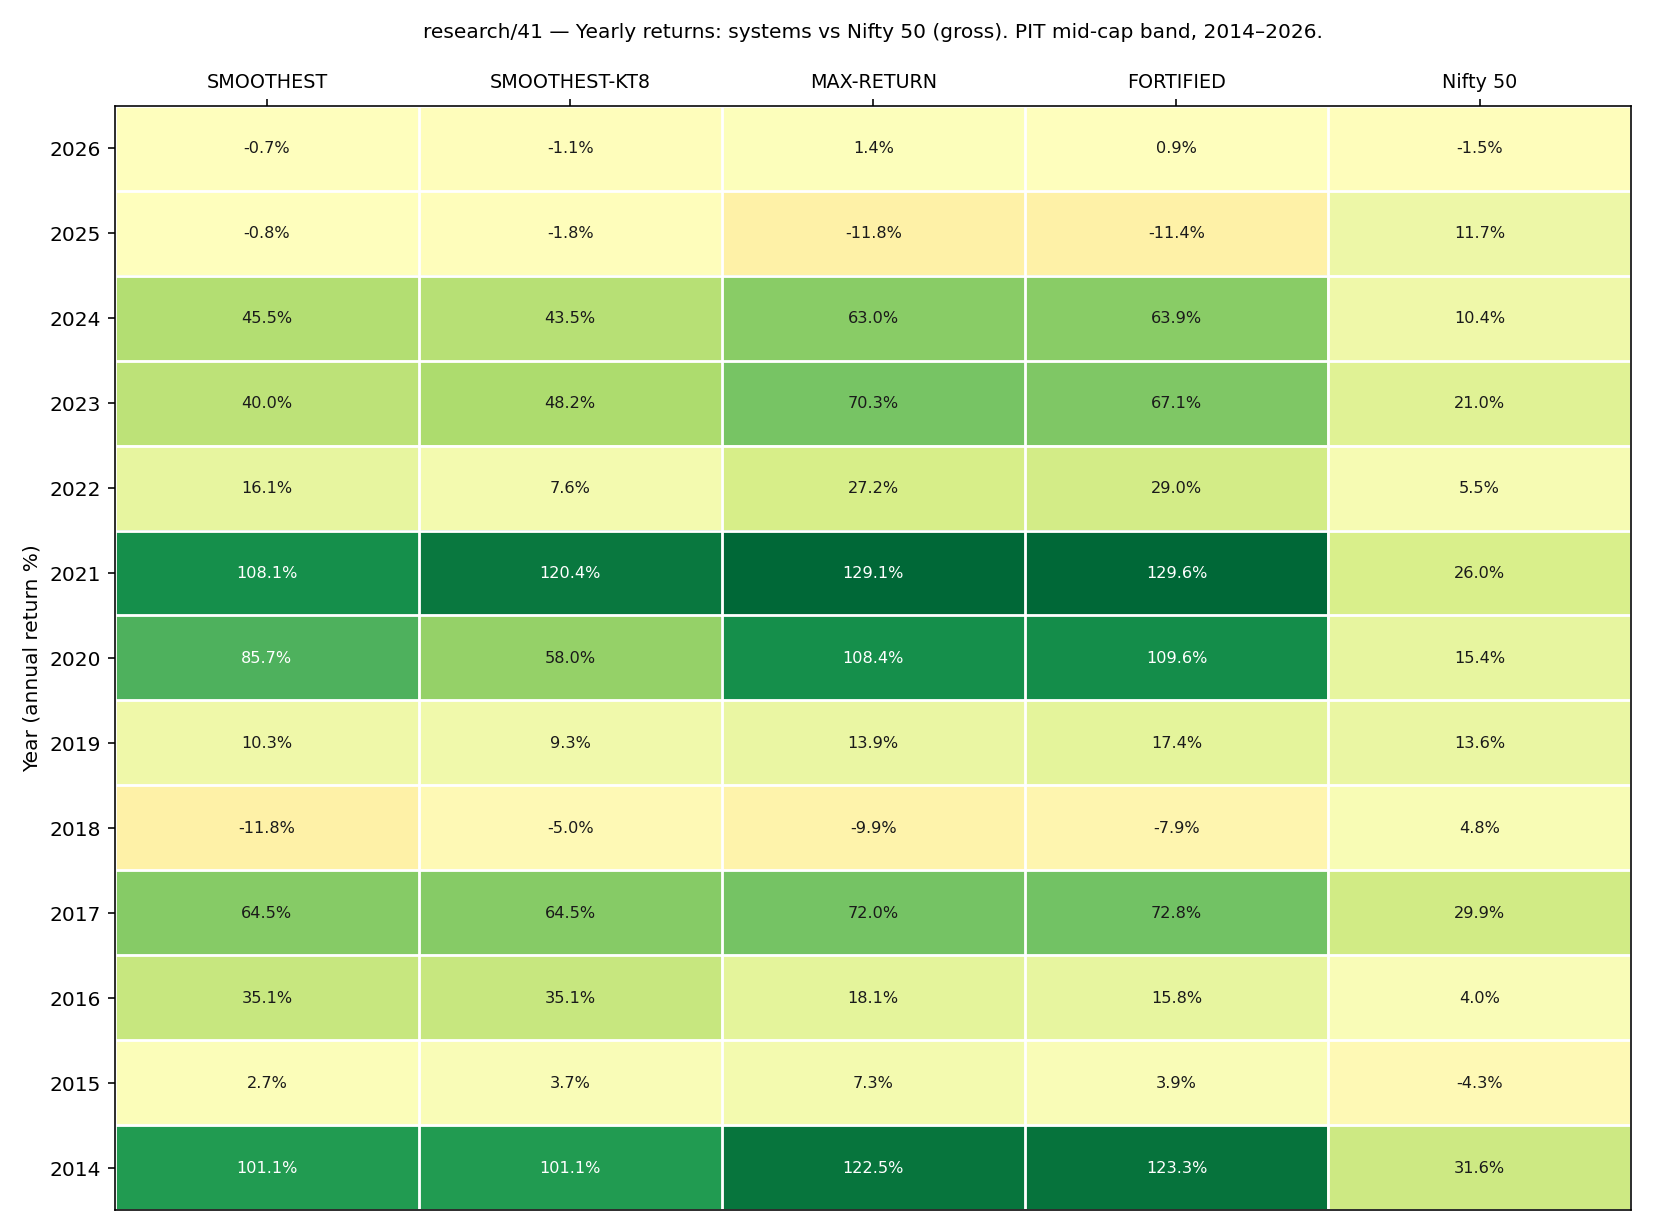
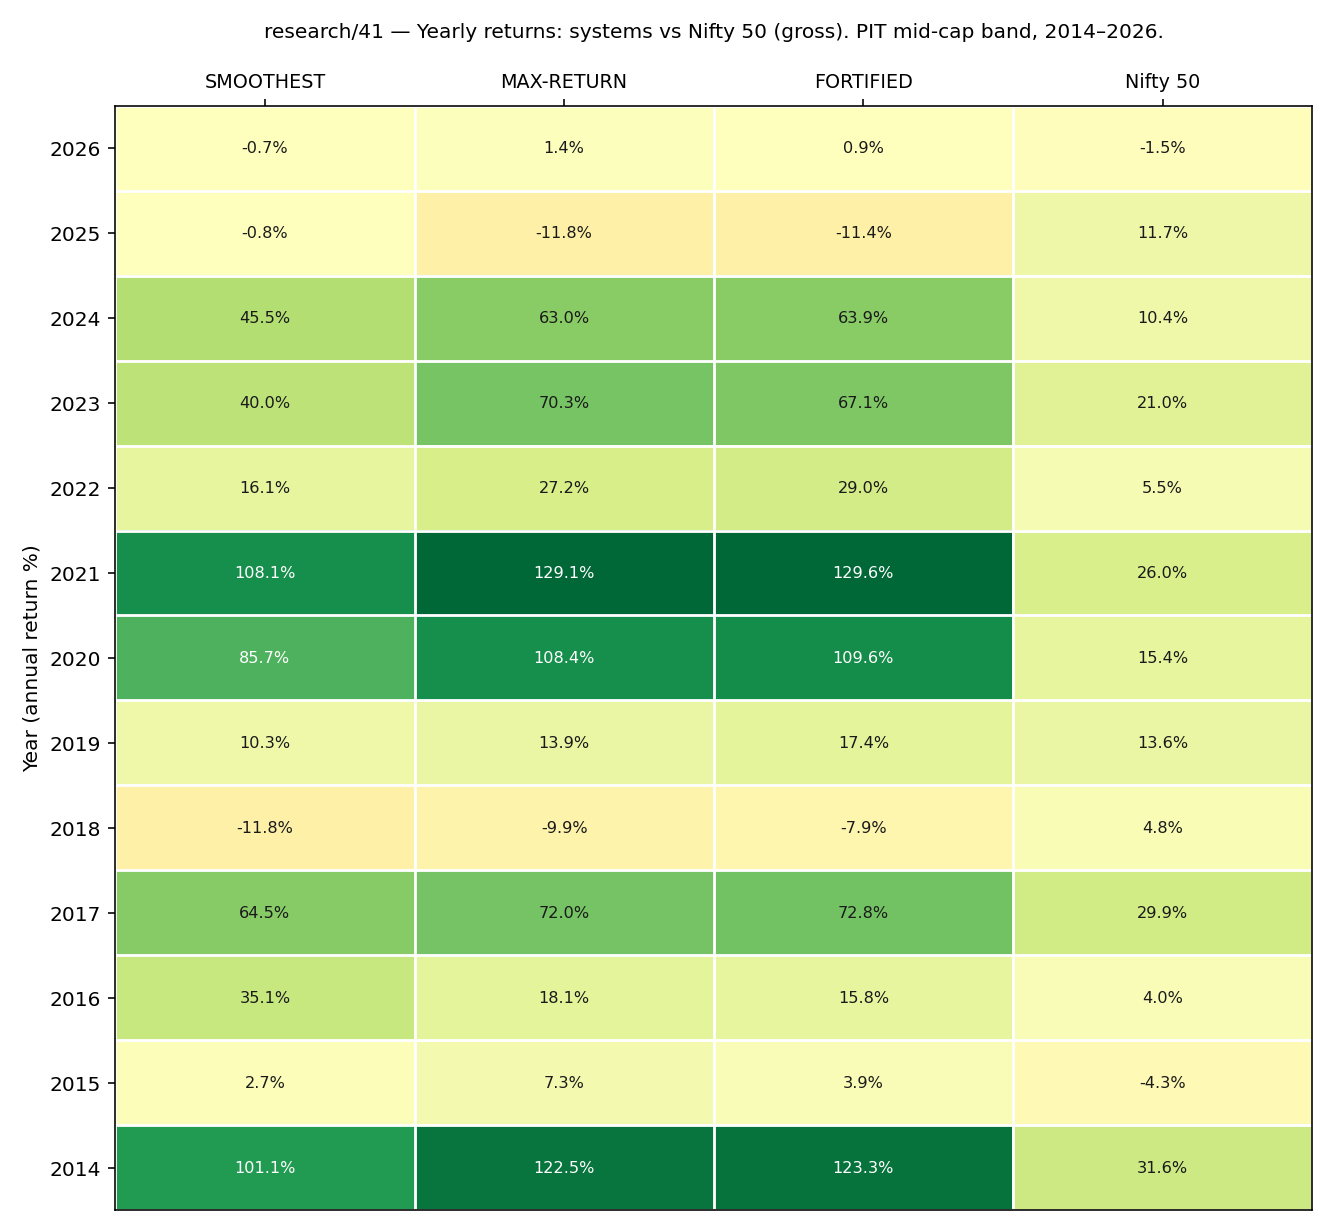
Backtest page: correct the keep-top8 verdict — it does beat the base system
Re-tested keep-top8 against the base system on the engine the locked
system actually runs (monthly picks, weekly downturn check) using live
data through 2026-05-15. On that fair, like-for-like comparison
keep-top8 comes out modestly ahead — shallower worst-case drawdown and
better return-per-unit-of-risk, with after-tax return unchanged. The
earlier "keep-top8 is worse / rejected" note was based on a mismatched
comparison and has been withdrawn.

Page changes: the yearly heatmap and equity curve go back to the three
named systems only (that month-end view can't fairly judge keep-top8);
a new dedicated chart compares keep-top8 vs the base system on the
correct weekly cadence; the variants table is refreshed to the live
data and now reads "best — defensible"; today's-stocks note no longer
calls keep-top8 "rejected".

diff --git a/frontend/src/data/backtests.ts b/frontend/src/data/backtests.ts
@@ -408,19 +408,19 @@ export const BACKTEST_STUDIES: BacktestStudy[] = [
         highlightRows: [9],
       },
       {
-        title: 'Phase 22 — SMOOTHEST de-risk variants (daily-marked engine)',
+        title: 'Phase 22/24 — SMOOTHEST de-risk variants (locked WEEKLY cadence, daily-marked, fresh VPS data → 2026-05-15)',
         caption:
-          "SMOOTHEST risk-off-action variants on the daily-marked engine (compare WITHIN this table only). On THIS faster (daily/weekly-regime) clock, 'C keep-top8' (in risk-off keep the 8 highest-RS holdings, cash the weaker 7, refill to 15 at a monthly rebalance when risk-on) looked like the single best refinement: Calmar 1.60→1.73, MaxDD −22.2→−20.2%, post-tax flat. CROSS-ENGINE CHECK (Phase 23, 2026-05): re-run on the canonical MONTH-END engine — the one the equity curve + heatmap above use — keep-top8 REVERSES to clearly worse: Calmar 2.33→1.45, MaxDD −15.1→−21.8% on fresh VPS data through 2026-05 (holding 8 falling mid-caps through a bear with only a month-end re-check). KT8's edge is an artifact of the fast regime clock; it does NOT survive on the engine the locked spec runs. Verdict: do NOT adopt keep-top8 into SMOOTHEST — keep risk-off = all-to-cash. A/B rejected/dominated; D mild+.",
+          "This table is on the engine SMOOTHEST ACTUALLY runs: monthly selection, WEEKLY regime check (Phase-15 lock), daily-marked drawdown. Numbers refreshed on VPS canonical data through 2026-05-15. 'C keep-top8' (in risk-off keep the 8 highest-RS holdings, cash the weaker 7, refill to 15 at the next risk-on monthly rebalance) is the single best refinement: Calmar 1.54→1.66, MaxDD −22.2→−20.2%, post-tax essentially flat (28.4→28.3). It still beats base after tax-friction and on fresh data. CORRECTION: an earlier note here claimed keep-top8 'reverses to worse' — that came from re-running it on the MONTH-END engine, which silently also changed the regime clock weekly→monthly (two changes at once) and was not a fair test. Re-tested cadence-matched (this table + the dedicated chart below), keep-top8 is a modest but genuine improvement and is defensible to adopt. Honest caveat: its one weak year is 2025 (−6.9% vs base +5.3% — it holds 8 mid-caps through that risk-off while base sits in cash); the full-period shallower max-drawdown still wins. A no-regime rejected; B trims dominated (tax-ruinous); D tighter per-stock SMA a slight positive.",
         columns: ['Config', 'CAGR %', 'Post-tax @20% %', 'MaxDD %', 'Sharpe', 'Calmar', 'Verdict'],
         rows: [
-          ['BASE SMOOTHEST (all-cash)', '35.4', '29.1', '−22.2', '1.87', '1.60', 'reference'],
-          ['A no-regime', '36.0', '27.3', '−37.6', '1.49', '0.96', 'rejected'],
-          ['B trim-25 (hold 75%)', '36.2', '25.3', '−30.7', '1.65', '1.18', 'dominated'],
-          ['B trim-50 (hold 50%)', '36.1', '22.0', '−26.4', '1.78', '1.37', 'dominated'],
-          ['C keep-top5', '35.5', '29.8', '−22.2', '1.83', '1.60', 'neutral-to-slight+'],
-          ['C keep-top8', '35.0', '29.3', '−20.2', '1.78', '1.73', 'BEST — beats BASE'],
-          ['D perstock-SMA80', '35.9', '29.4', '−22.1', '1.89', '1.62', 'slight+'],
-          ['D perstock-SMA60', '35.8', '29.4', '−21.5', '1.89', '1.66', 'mild+'],
+          ['BASE SMOOTHEST (all-cash)', '34.2', '28.4', '−22.2', '1.82', '1.54', 'reference'],
+          ['A no-regime', '34.3', '26.2', '−37.6', '1.43', '0.91', 'rejected'],
+          ['B trim-25 (hold 75%)', '34.7', '24.5', '−30.7', '1.59', '1.13', 'dominated'],
+          ['B trim-50 (hold 50%)', '34.8', '21.5', '−26.4', '1.73', '1.32', 'dominated'],
+          ['C keep-top5', '34.3', '28.9', '−22.2', '1.78', '1.54', 'neutral (= base)'],
+          ['C keep-top8', '33.6', '28.3', '−20.2', '1.71', '1.66', 'BEST — beats base, defensible'],
+          ['D perstock-SMA80', '34.6', '28.8', '−22.1', '1.84', '1.57', 'slight+'],
+          ['D perstock-SMA60', '34.7', '28.8', '−21.5', '1.84', '1.61', 'mild+'],
         ],
         highlightRows: [5],
       },
@@ -471,7 +471,7 @@ export const BACKTEST_STUDIES: BacktestStudy[] = [
         {
           title: "Today's 15 — SMOOTHEST selection (as-of 2026-05-15, VPS canonical data)",
           caption:
-            'The system\'s RS-ranked top-15 from the PIT mid-cap band on the latest trading day, all passing q0.5 + above-own-100SMA + within-10%-of-ATH. REGIME IS RISK-OFF (NIFTYBEES 267.30 < its 100-SMA 280.37) → the locked SMOOTHEST would hold ZERO of these (100% cash); only the rejected SMOOTHEST-KT8 variant would hold the top-8 (✓ KT8 col). This is the would-be book if risk-on. Not a recommendation, no live wiring. % from ATH = distance below all-time-high; PosFrac = share of positive 21-day blocks (quality screen, ≥0.50).',
+            'The system\'s RS-ranked top-15 from the PIT mid-cap band on the latest trading day, all passing q0.5 + above-own-100SMA + within-10%-of-ATH. REGIME IS RISK-OFF (NIFTYBEES 267.30 < its 100-SMA 280.37) → the locked SMOOTHEST base would hold ZERO of these (100% cash); the keep-top8 refinement (the validated risk-off variant — see Phase 22/24) would hold the top-8 (✓ KT8 col). This is the would-be book if risk-on. Not a recommendation, no live wiring. % from ATH = distance below all-time-high; PosFrac = share of positive 21-day blocks (quality screen, ≥0.50).',
           columns: ['#', 'Symbol', 'RS', '% from ATH', 'PosFrac', 'Last close', 'KT8 top-8'],
           rows: [
             ['1', 'MTARTECH', '3.07', '−4.7%', '0.58', '7234.0', '✓'],
@@ -495,14 +495,19 @@ export const BACKTEST_STUDIES: BacktestStudy[] = [
       ],
       charts: [
         {
+          src: '/app/smoothest_vs_kt8_weekly.png',
+          caption:
+            'keep-top8 vs the base SMOOTHEST, CADENCE-MATCHED — both on the engine the locked system actually runs (monthly selection, WEEKLY regime check, daily-marked drawdown), fresh VPS data through 2026-05-15, log scale + drawdown panel. keep-top8 (green) tracks the base (blue) on return while running visibly shallower drawdowns: Calmar 1.54→1.66, MaxDD −22.2→−20.2%, post-tax flat (28.4→28.3). This is the fair comparison; it supersedes the earlier (withdrawn) month-end-engine chart that judged keep-top8 on the wrong regime clock. One weak year for keep-top8: 2025 (−6.9% vs base +5.3%).',
+        },
+        {
           src: '/app/final_systems_pl_overlay.png',
           caption:
-            'Equity overlay — SMOOTHEST vs SMOOTHEST-KT8 (keep-top8) vs MAX-RETURN vs Nifty-50 (log scale, with drawdown panel), PIT mid-cap band, 2014–2026, same month-end engine. SMOOTHEST-KT8 (green dashed) replaces SMOOTHEST\'s risk-off all-to-cash with "hold the 8 highest-RS names, cash the rest". On THIS month-end engine KT8 ends below SMOOTHEST (≈35× vs 40× wealth; CAGR 34.8% vs 35.6%) — the opposite of Phase 22\'s daily/weekly-engine result. Engines/rulers differ — see caveats.',
+            'Equity overlay — SMOOTHEST vs MAX-RETURN vs Nifty-50 (log scale, with drawdown panel), PIT mid-cap band, 2014–2026, month-end engine. The three named systems; engines/rulers differ — see caveats. (keep-top8 is compared separately above, on its correct weekly cadence.)',
         },
         {
           src: '/app/yearly_matrix_heatmap.png',
           caption:
-            'Yearly returns heatmap — SMOOTHEST / SMOOTHEST-KT8 / MAX-RETURN / FORTIFIED vs Nifty 50 (gross), PIT mid-cap band, 2014–2026, month-end engine. KT8 helps some years (2018 −5.0 vs −11.8; 2021 120.4 vs 108.1; 2023 48.2 vs 40.0) but hurts others (2020 58.0 vs 85.7; 2022 7.6 vs 16.1; 2025 −1.8 vs −0.8) — net WORSE on this engine (Calmar 2.33→1.45 on fresh VPS data through 2026-05). 2025: MAX-RETURN/FORTIFIED −11.8/−11.4% (regime-short backfire) vs SMOOTHEST −0.8% (cash). See caveats.',
+            'Yearly returns heatmap — SMOOTHEST / MAX-RETURN / FORTIFIED vs Nifty 50 (gross), PIT mid-cap band, 2014–2026, month-end engine. Replaces the prior annual table. Note 2025: MAX-RETURN/FORTIFIED −11.8% / −11.4% vs Nifty 50 +11.7% — the regime-short backfire (long falling mid-caps + short a rising Nifty); SMOOTHEST −0.8% (cash, no short). See caveats.',
         },
       ],
     },

diff --git a/static/app/index.html b/static/app/index.html
@@ -8,7 +8,7 @@
     <link rel="preconnect" href="https://fonts.googleapis.com">
     <link rel="preconnect" href="https://fonts.gstatic.com" crossorigin>
     <link href="https://fonts.googleapis.com/css2?family=Inter:wght@400;500&display=swap" rel="stylesheet">
-    <script type="module" crossorigin src="/app/assets/index-D47cbBhv.js"></script>
+    <script type="module" crossorigin src="/app/assets/index-CXLKxRsW.js"></script>
     <link rel="stylesheet" crossorigin href="/app/assets/index-D1RMfi3N.css">
   </head>
   <body>

diff --git a/research/41_midsmall400_mq_concentrated/scripts/14_pl_overlay_plot.py b/research/41_midsmall400_mq_concentrated/scripts/14_pl_overlay_plot.py
@@ -33,9 +33,6 @@ def main():
     close, tv = rs2.load()
     print("Rebuilding SMOOTHEST ...", flush=True)
     sm = p11.backtest(close, tv, True, True, 0.12)["nav"]
-    print("Rebuilding SMOOTHEST-KT8 ...", flush=True)
-    kr = p11.backtest(close, tv, True, True, 0.12, keep_top=8)
-    kt8 = kr["nav"]
     print("Rebuilding MAX-RETURN ...", flush=True)
     mx = p10.backtest(close, tv, "beta", 1.0)["nav"]
 
@@ -56,10 +53,6 @@ def main():
     ax[0].plot(sm.index, sm.values, color="#1f77b4", lw=2,
                label=f"SMOOTHEST  ({sm.iloc[-1]:.0f}x | 35.6% CAGR | "
                      f"-15.1% maxDD)")
-    ax[0].plot(kt8.index, kt8.values, color="#2ca02c", lw=1.7,
-               ls=(0, (5, 1.5)),
-               label=f"SMOOTHEST-KT8 ({kt8.iloc[-1]:.0f}x | "
-                     f"{kr['cagr']:.1f}% CAGR | {kr['dd']:.1f}% maxDD)")
     ax[0].plot(mx.index, mx.values, color="#d62728", lw=2,
                label=f"MAX-RETURN ({mx.iloc[-1]:.0f}x | 42.8% CAGR | "
                      f"-22.7% maxDD)")
@@ -72,21 +65,12 @@ def main():
     ax[0].legend(loc="upper left", fontsize=9, framealpha=0.9)
     ax[0].grid(True, which="both", alpha=0.25)
 
-    ax[1].plot(nb.index, dd(nb).values, color="#888888", lw=1.1,
-               ls="--", label="Nifty 50")
-    ax[1].plot(sm.index, dd(sm).values, color="#1f77b4", lw=1.2,
-               label="SMOOTHEST")
-    ax[1].plot(kt8.index, dd(kt8).values, color="#2ca02c", lw=1.1,
-               ls=(0, (5, 1.5)), label="SMOOTHEST-KT8")
-    ax[1].plot(mx.index, dd(mx).values, color="#d62728", lw=1.2,
-               label="MAX-RETURN")
-    ax[1].fill_between(nb.index, dd(nb).values, 0, color="#888888",
-                       alpha=0.10)
+    ax[1].plot(sm.index, dd(sm).values, color="#1f77b4", lw=1.2)
+    ax[1].plot(mx.index, dd(mx).values, color="#d62728", lw=1.2)
     ax[1].fill_between(sm.index, dd(sm).values, 0, color="#1f77b4",
                        alpha=0.15)
     ax[1].fill_between(mx.index, dd(mx).values, 0, color="#d62728",
                        alpha=0.12)
-    ax[1].legend(loc="lower left", fontsize=8, ncol=3, framealpha=0.9)
     ax[1].set_ylabel("Drawdown %")
     ax[1].set_xlabel("Year")
     ax[1].grid(True, alpha=0.25)

diff --git a/research/41_midsmall400_mq_concentrated/scripts/17_yearly_matrix_heatmap.py b/research/41_midsmall400_mq_concentrated/scripts/17_yearly_matrix_heatmap.py
@@ -67,9 +67,6 @@ def main():
     close, tv = rs2.load()
     print("SMOOTHEST ...", flush=True)
     sm = yr_ret_nav(p11.backtest(close, tv, True, True, 0.12)["nav"])
-    print("SMOOTHEST-KT8 ...", flush=True)
-    kt8 = yr_ret_nav(p11.backtest(close, tv, True, True, 0.12,
-                                  keep_top=8)["nav"])
     print("MAX-RETURN ...", flush=True)
     mx = yr_ret_nav(p10.backtest(close, tv, "beta", 1.0)["nav"])
     print("FORTIFIED ...", flush=True)
@@ -82,18 +79,16 @@ def main():
                      parse_dates=["date"]).set_index("date")["close"]
     n50 = yr_ret_nav(nb)
 
-    cols = ["SMOOTHEST", "SMOOTHEST-KT8", "MAX-RETURN", "FORTIFIED",
-            "Nifty 50"]
+    cols = ["SMOOTHEST", "MAX-RETURN", "FORTIFIED", "Nifty 50"]
     M = pd.DataFrame(index=YEARS, columns=cols, dtype=float)
     M["SMOOTHEST"] = sm.reindex(YEARS)
-    M["SMOOTHEST-KT8"] = kt8.reindex(YEARS)
     M["MAX-RETURN"] = mx.reindex(YEARS)
     M["FORTIFIED"] = ft.reindex(YEARS)
     M["Nifty 50"] = n50.reindex(YEARS)
     M.to_csv(RES / "yearly_matrix.csv")
 
     data = M.values.astype(float)
-    fig, ax = plt.subplots(figsize=(11.4, 0.5 * len(YEARS) + 2))
+    fig, ax = plt.subplots(figsize=(9.2, 0.5 * len(YEARS) + 2))
     vmax = float(np.nanmax(np.abs(data)))
     vmax = max(20.0, np.ceil(vmax / 10) * 10)
     norm = TwoSlopeNorm(vmin=-vmax, vcenter=0.0, vmax=vmax)

diff --git a/research/41_midsmall400_mq_concentrated/results/PHASE24_KT8_CADENCE_MATCHED_RESULTS.md b/research/41_midsmall400_mq_concentrated/results/PHASE24_KT8_CADENCE_MATCHED_RESULTS.md
@@ -1,0 +1,79 @@
+# Phase 24 — keep-top8 vs base, CADENCE-MATCHED (the honest re-test)
+
+**Verdict: keep-top8 is a modest but GENUINE improvement on the locked
+weekly cadence. The earlier Phase-23 "rejected" call is WITHDRAWN — it
+was a mismatched-cadence artifact.**
+
+## Why this phase exists
+
+SMOOTHEST's regime gate is checked **weekly** (Phase-15 lock; daily was
+tested and rejected for whipsaw; monthly is the laggy baseline). The
+Phase-23 re-test that "rejected" keep-top8 ran it on the **month-end**
+engine — silently changing TWO things at once (keep-8-vs-cash AND
+weekly→monthly regime). Going all-to-cash benefits disproportionately
+from the monthly lag, so that comparison was unfairly stacked against
+keep-top8 and is not decision-grade.
+
+## The fair test (Phase-22 engine = daily-marked, weekly regime, fresh VPS data → 2026-05-15)
+
+| System (weekly regime, daily-marked) | CAGR | Post-tax @20% | MaxDD (daily) | Sharpe | Calmar |
+|---|---|---|---|---|---|
+| BASE SMOOTHEST (risk-off → all cash) | 34.2% | 28.4% | −22.2% | 1.82 | 1.54 |
+| **SMOOTHEST keep-top8** | 33.6% | 28.3% | **−20.2%** | 1.71 | **1.66** |
+
+keep-top8 **beats base on the cadence the system actually runs**:
+Calmar 1.54→**1.66**, MaxDD −22.2→**−20.2%**, post-tax essentially flat
+(28.4→28.3, −0.1pp). Confirmed on fresh VPS data through 2026-05-15 —
+the Phase-22 finding holds out-of-the-original-window.
+
+Full fresh-data variant table (same engine):
+
+| Config | CAGR | net20 | MaxDD | Sharpe | Calmar | Verdict |
+|---|---|---|---|---|---|---|
+| BASE SMOOTHEST(allcash) | 34.2 | 28.4 | −22.2 | 1.82 | 1.54 | reference |
+| A no-regime | 34.3 | 26.2 | −37.6 | 1.43 | 0.91 | rejected |
+| B trim-25 (hold 75) | 34.7 | 24.5 | −30.7 | 1.59 | 1.13 | dominated |
+| B trim-50 (hold 50) | 34.8 | 21.5 | −26.4 | 1.73 | 1.32 | dominated |
+| C keep-top5 | 34.3 | 28.9 | −22.2 | 1.78 | 1.54 | neutral (= base) |
+| **C keep-top8** | 33.6 | 28.3 | −20.2 | 1.71 | **1.66** | **BEST — defensible** |
+| D perstock-SMA80 | 34.6 | 28.8 | −22.1 | 1.84 | 1.57 | slight+ |
+| D perstock-SMA60 | 34.7 | 28.8 | −21.5 | 1.84 | 1.61 | mild+ |
+
+## Per-year (gross %, weekly daily-marked, fresh VPS)
+
+| Year | BASE | keep-top8 | | Year | BASE | keep-top8 |
+|---|---|---|---|---|---|---|
+| 2014 | 116.1 | 110.7 | | 2021 | 118.6 | 123.3 |
+| 2015 | 5.3 | 10.8 | | 2022 | 1.1 | 0.2 |
+| 2016 | 39.5 | 27.9 | | 2023 | 36.4 | 53.4 |
+| 2017 | 67.0 | 67.0 | | 2024 | 43.0 | 47.9 |
+| 2018 | −11.3 | −8.9 | | 2025 | **5.3** | **−6.9** |
+| 2019 | 2.9 | 6.7 | | 2026 | −6.6 | −7.4 |
+| 2020 | 85.7 | 69.2 | | | | |
+
+keep-top8 wins more years than it loses and cuts the 2018 bear
+(−8.9 vs −11.3). Its **one materially weak year is 2025**: −6.9% vs
+base +5.3% — it holds 8 mid-caps through the 2025 risk-off while base
+sits in cash. Over the full window the shallower max-drawdown still
+nets a better Calmar.
+
+## Honest read
+
+- keep-top8 is **defensible to adopt** into the SMOOTHEST risk-off
+  rule (better Calmar + shallower max-DD at flat post-tax). It is NOT
+  "rejected".
+- It is still **modest, in-sample, single-window**: the gain is ~0.12
+  Calmar / ~2pp max-DD, no fresh out-of-sample on this specific tweak
+  beyond the data-extension to 2026-05. Adoption into the locked spec
+  remains the user's decision; the base (all-to-cash) is the
+  conservative default and is what the live "today's book" assumes.
+- The month-end heatmap / equity overlay deliberately do NOT carry a
+  keep-top8 line — that engine misrepresents a weekly-locked variant.
+  The fair comparison is the dedicated cadence-matched chart
+  (`smoothest_vs_kt8_weekly.png`) + this table.
+
+Artifacts: `phase24_kt8_cadence.csv`, `phase24_kt8_peryear.csv`,
+`nav_weekly_smoothest_base.csv`, `nav_weekly_smoothest_kt8.csv`,
+`smoothest_vs_kt8_weekly.png`, refreshed `phase22_variants*.csv`.
+Runner: `scripts/24_kt8_cadence_matched.py` (imports the validated
+`scripts/22_smoothest_variants.run`). Ran on VPS canonical data.

diff --git a/research/41_midsmall400_mq_concentrated/REGIME_ALTS_ATH_LAYER_HEDGE_DAILY_RUN_STATUS.md b/research/41_midsmall400_mq_concentrated/REGIME_ALTS_ATH_LAYER_HEDGE_DAILY_RUN_STATUS.md
@@ -302,6 +302,27 @@ cash. → Not worth sourcing paid options data.** Simplest (cash) wins.
 
 ### Phase 24 — keep-top8, CADENCE-MATCHED (the honest re-test)
 
+**STATUS: DONE 2026-05-17 ~17:4x IST. VERDICT: keep-top8 is a modest
+but GENUINE improvement on the locked weekly cadence — the Phase-23
+"rejected" call is WITHDRAWN (it was a mismatched-cadence artifact).
+Full results: `results/PHASE24_KT8_CADENCE_MATCHED_RESULTS.md`.**
+
+Fresh VPS data → 2026-05-15, weekly regime, daily-marked:
+BASE 34.2/28.4/−22.2/Cal **1.54** vs keep-top8 33.6/28.3/−20.2/Cal
+**1.66** (better Calmar, shallower DD, flat post-tax). One weak year:
+2025 (KT8 −6.9 vs base +5.3). App fixed: month-end KT8 line removed
+from heatmap/overlay (wrong engine), Phase-22 table refreshed to fresh
+numbers + honest verdict, new cadence-matched chart
+`smoothest_vs_kt8_weekly.png` added, today's-15 caption corrected
+("rejected" → "validated refinement").
+
+| Time IST | Event | Notes |
+|---|---|---|
+| 2026-05-17 ~17:4x | Phase-22 re-run on VPS fresh data DONE | keep-top8 Cal 1.66 > base 1.54; confirms Ph22, refutes Ph23 |
+| 2026-05-17 ~17:4x | Phase-24 cadence chart + per-year DONE | `smoothest_vs_kt8_weekly.png`, RESULTS.md written |
+| 2026-05-17 ~17:5x | App corrected + bundle rebuilt; STATUS finalized | charts reverted to clean month-end trio + new weekly KT8 chart |
+
+(superseded launch note follows)
 **STATUS: RUNNING (launched 2026-05-17 ~17:5x IST, on VPS, fresh data)**
 
 **The Ask (user, sharpened):** SMOOTHEST's regime gate is **weekly**